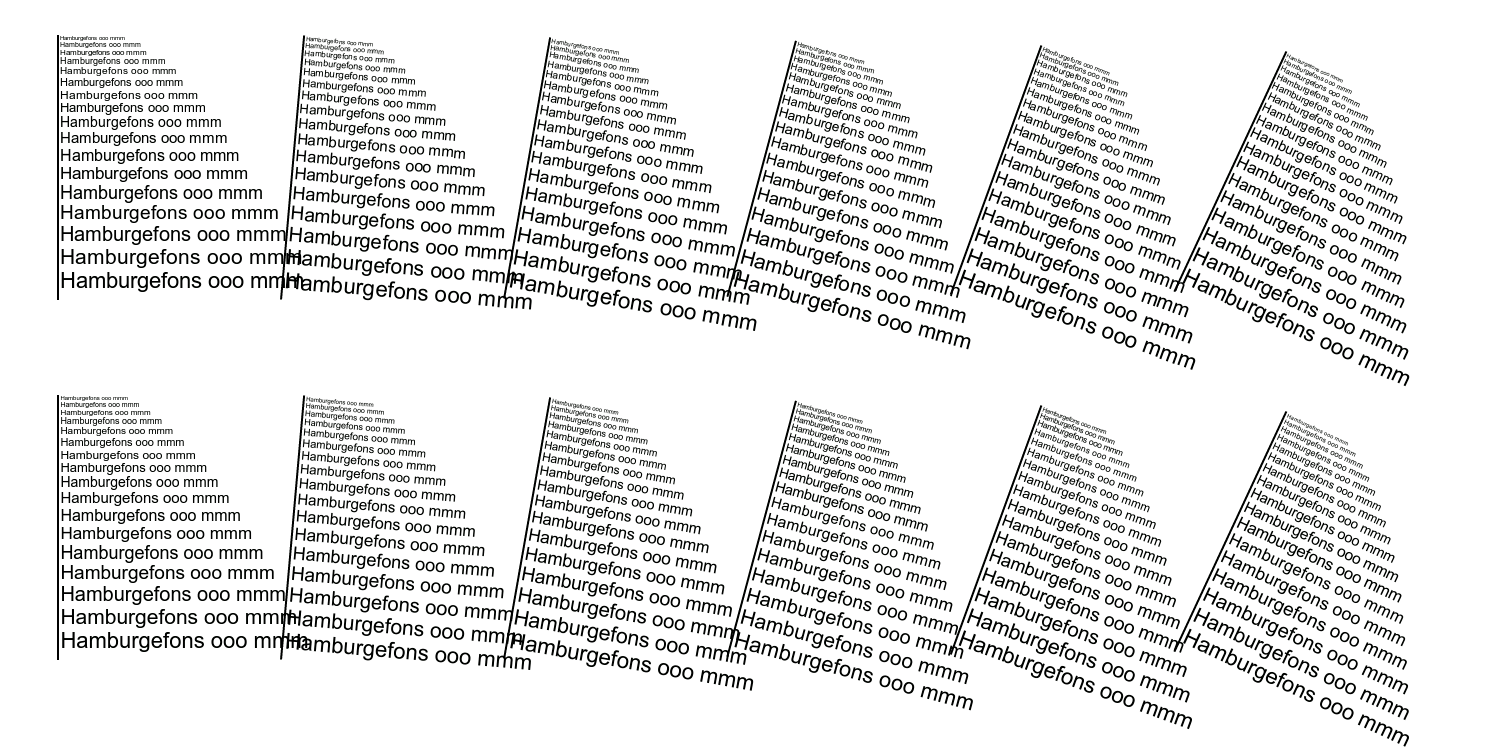
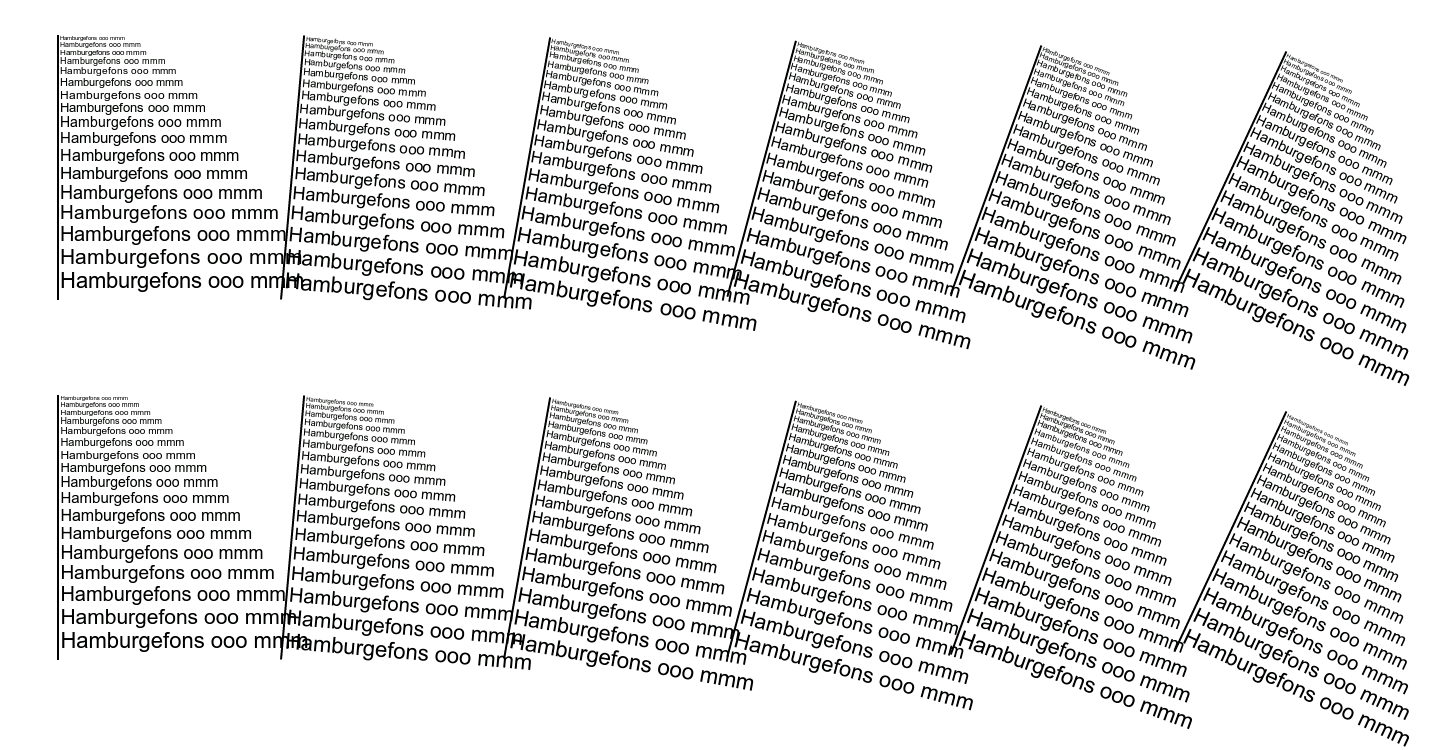
Add font scaler gm. http://codereview.appspot.com/5337044/
git-svn-id: https://skia.googlecode.com/svn/trunk@2619 2bbb7eff-a529-9590-31e7-b0007b416f81

Changed region(s): [[0.031, 0.5213, 0.9621, 1.0], [0.031, 0.0307, 0.9621, 0.5213]]

diff --git a/src/core/SkPaint.cpp b/src/core/SkPaint.cpp
@@ -1569,7 +1569,13 @@ void SkPaint::flatten(SkFlattenableWriteBuffer& buffer) const {
     ptr = write_scalar(ptr, this->getStrokeWidth());
     ptr = write_scalar(ptr, this->getStrokeMiter());
     *ptr++ = this->getColor();
-    *ptr++ = (this->getFlags() << 16) | (this->getTextAlign() << 8) | flatFlags;
+    // previously flags:16, textAlign:8, flatFlags:8
+    // now flags:16, hinting:4, textAlign:4, flatFlags:8
+    *ptr++ = (this->getFlags() << 16) |
+             // hinting added later. 0 in this nibble means use the default.
+             ((this->getHinting()+1) << 12) |
+             (this->getTextAlign() << 8) |
+             flatFlags;
     *ptr++ = pack_4(this->getStrokeCap(), this->getStrokeJoin(),
                     this->getStyle(), this->getTextEncoding());
 
@@ -1602,9 +1608,17 @@ void SkPaint::unflatten(SkFlattenableReadBuffer& buffer) {
     this->setStrokeMiter(read_scalar(pod));
     this->setColor(*pod++);
 
+    // previously flags:16, textAlign:8, flatFlags:8
+    // now flags:16, hinting:4, textAlign:4, flatFlags:8
     uint32_t tmp = *pod++;
     this->setFlags(tmp >> 16);
-    this->setTextAlign(static_cast<Align>((tmp >> 8) & 0xFF));
+
+    // hinting added later. 0 in this nibble means use the default.
+    uint32_t hinting = (tmp >> 12) & 0xF;
+    this->setHinting(0 == hinting ? kNormal_Hinting : static_cast<Hinting>(hinting-1));
+
+    this->setTextAlign(static_cast<Align>((tmp >> 8) & 0xF));
+
     uint8_t flatFlags = tmp & 0xFF;
 
     tmp = *pod++;

diff --git a/gm/fontscaler.cpp b/gm/fontscaler.cpp
@@ -47,7 +47,7 @@ protected:
     }
 
     virtual SkISize onISize() {
-        return make_isize(1500, 750);
+        return make_isize(1450, 750);
     }
 
     static void rotate_about(SkCanvas* canvas, SkScalar degrees, SkScalar px, SkScalar py) {
